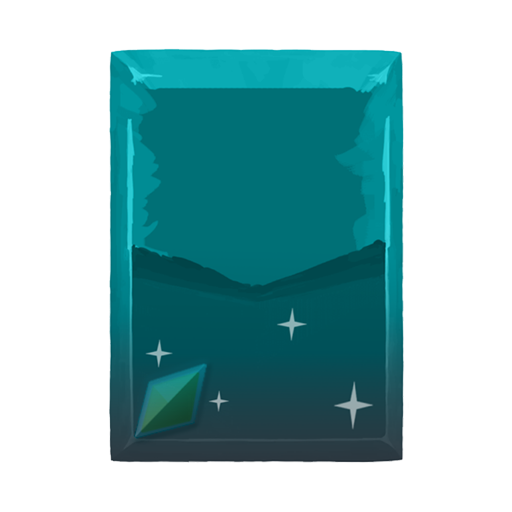
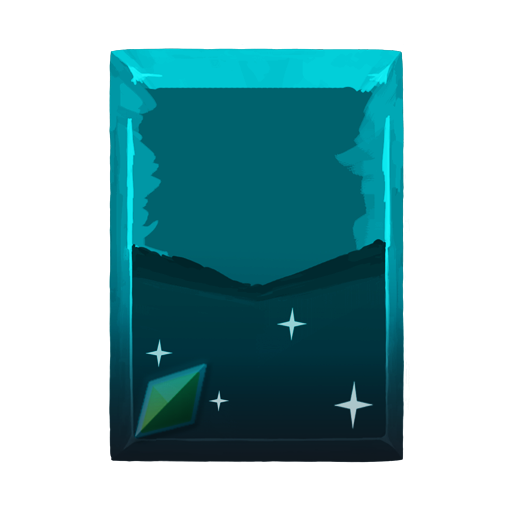
1.1.2更新 其他调整： 换脸商事件 特殊藏品 选项增加遗物预览 灵魂剥离 剥离出的灵魂名称改为 (目标)的灵魂 改良卡牌贴图配色，增加了对比度，消除了白边 为以下效果新增了图标： 全力招架 血迹 反击 交叉统治 印记捕获 枪械掌握 戕罚形态 牲祭替换 罪孽 临时协作 涤荡

diff --git a/src/main/java/demoMod/scapegoat/patches/events/shrines/FaceTraderPatch.java b/src/main/java/demoMod/scapegoat/patches/events/shrines/FaceTraderPatch.java
@@ -41,7 +41,7 @@ public class FaceTraderPatch {
                             event.imageEventText.updateDialogOption(0, OPTIONS[0] + damage + OPTIONS[5] + (AbstractDungeon.ascensionLevel >= 15 ? 50 : 75) + OPTIONS[1]);
                             event.imageEventText.setDialogOption(OPTIONS[2]);
                             int amount = AbstractDungeon.ascensionLevel >= 15 ? 2 : 1;
-                            event.imageEventText.setDialogOption(String.format(OPTIONS[6], amount, amount));
+                            event.imageEventText.setDialogOption(String.format(OPTIONS[6], amount, amount), new GhostMask());
                             event.imageEventText.setDialogOption(OPTIONS[3]);
                             ReflectionHacks.setPrivate(event, FaceTrader.class, "screen", Enum.valueOf((Class<Enum>) Class.forName("com.megacrit.cardcrawl.events.shrines.FaceTrader$CurScreen"), "MAIN"));
                             return SpireReturn.Return(null);

diff --git a/src/main/java/demoMod/scapegoat/powers/CrossDominatePower.java b/src/main/java/demoMod/scapegoat/powers/CrossDominatePower.java
@@ -8,6 +8,7 @@ import com.megacrit.cardcrawl.dungeons.AbstractDungeon;
 import com.megacrit.cardcrawl.localization.PowerStrings;
 import demoMod.scapegoat.Scapegoat;
 import demoMod.scapegoat.interfaces.PostBurialSubscriber;
+import demoMod.scapegoat.utils.PowerRegionLoader;
 
 public class CrossDominatePower extends TwoAmountPower implements PostBurialSubscriber {
     public static final String POWER_ID = Scapegoat.makeID("CrossDominatePower");
@@ -22,7 +23,7 @@ public class CrossDominatePower extends TwoAmountPower implements PostBurialSubs
         this.owner = AbstractDungeon.player;
         this.amount = 1;
         this.amount2 = this.defaultAmount = amount;
-        this.loadRegion("rushdown");
+        PowerRegionLoader.loadRegion(this);
         this.updateDescription();
     }
 

diff --git a/src/main/java/demoMod/scapegoat/powers/AllOutParryPower.java b/src/main/java/demoMod/scapegoat/powers/AllOutParryPower.java
@@ -9,6 +9,7 @@ import com.megacrit.cardcrawl.localization.PowerStrings;
 import com.megacrit.cardcrawl.powers.AbstractPower;
 import demoMod.scapegoat.Scapegoat;
 import demoMod.scapegoat.interfaces.PostBurialSubscriber;
+import demoMod.scapegoat.utils.PowerRegionLoader;
 
 public class AllOutParryPower extends AbstractPower implements PostBurialSubscriber {
     public static final String POWER_ID = Scapegoat.makeID("AllOutParryPower");
@@ -22,7 +23,7 @@ public class AllOutParryPower extends AbstractPower implements PostBurialSubscri
         this.owner = AbstractDungeon.player;
         this.amount = amount;
         this.updateDescription();
-        this.loadRegion("noPain");
+        PowerRegionLoader.loadRegion(this);
     }
 
     @Override

diff --git a/src/main/java/demoMod/scapegoat/powers/SacrificeReplacementPower.java b/src/main/java/demoMod/scapegoat/powers/SacrificeReplacementPower.java
@@ -9,6 +9,7 @@ import com.megacrit.cardcrawl.localization.PowerStrings;
 import com.megacrit.cardcrawl.powers.AbstractPower;
 import demoMod.scapegoat.Scapegoat;
 import demoMod.scapegoat.cards.scapegoat.Shard;
+import demoMod.scapegoat.utils.PowerRegionLoader;
 
 public class SacrificeReplacementPower extends AbstractPower {
     public static final String POWER_ID = Scapegoat.makeID("SacrificeReplacementPower");
@@ -21,7 +22,7 @@ public class SacrificeReplacementPower extends AbstractPower {
         this.ID = POWER_ID;
         this.owner = owner;
         this.amount = amount;
-        this.loadRegion("heartDef");
+        PowerRegionLoader.loadRegion(this);
         this.updateDescription();
         this.priority = 101;
     }

diff --git a/src/main/java/demoMod/scapegoat/powers/MasteryOfFirearmsPower.java b/src/main/java/demoMod/scapegoat/powers/MasteryOfFirearmsPower.java
@@ -9,6 +9,7 @@ import com.megacrit.cardcrawl.localization.PowerStrings;
 import com.megacrit.cardcrawl.powers.AbstractPower;
 import demoMod.scapegoat.Scapegoat;
 import demoMod.scapegoat.cards.scapegoat.SerialBullet;
+import demoMod.scapegoat.utils.PowerRegionLoader;
 
 public class MasteryOfFirearmsPower extends AbstractPower {
     public static final String POWER_ID = Scapegoat.makeID("MasteryOfFirearmsPower");
@@ -28,7 +29,7 @@ public class MasteryOfFirearmsPower extends AbstractPower {
         this.owner = AbstractDungeon.player;
         this.amount = amount;
         this.upgraded = upgraded;
-        this.loadRegion("attackBurn");
+        PowerRegionLoader.loadRegion(this);
         this.updateDescription();
     }
 

diff --git a/src/main/java/demoMod/scapegoat/powers/BloodstainPower.java b/src/main/java/demoMod/scapegoat/powers/BloodstainPower.java
@@ -6,6 +6,7 @@ import com.megacrit.cardcrawl.core.CardCrawlGame;
 import com.megacrit.cardcrawl.localization.PowerStrings;
 import com.megacrit.cardcrawl.powers.AbstractPower;
 import demoMod.scapegoat.Scapegoat;
+import demoMod.scapegoat.utils.PowerRegionLoader;
 
 public class BloodstainPower extends AbstractPower {
     public static final String POWER_ID = Scapegoat.makeID("BloodstainPower");
@@ -18,7 +19,7 @@ public class BloodstainPower extends AbstractPower {
         this.ID = POWER_ID;
         this.owner = owner;
         this.amount = amount;
-        this.loadRegion("strength");
+        PowerRegionLoader.loadRegion(this);
         this.updateDescription();
         this.priority = 99;
     }

diff --git a/src/main/java/demoMod/scapegoat/monsters/BaredSoul.java b/src/main/java/demoMod/scapegoat/monsters/BaredSoul.java
@@ -11,8 +11,8 @@ public class BaredSoul extends AbstractMonster {
     public static final String ID = Scapegoat.makeID("BaredSoul");
     public static final String NAME;
 
-    public BaredSoul(float offsetX, float offsetY, int maxHealth) {
-        super(NAME, ID + UUID.randomUUID().toString(), maxHealth, -8.0F, 10.0F, 180.0F, 229.0F, Scapegoat.getResourcePath("monsters/baredSoul.png"), offsetX, offsetY);
+    public BaredSoul(String sourceName, float offsetX, float offsetY, int maxHealth) {
+        super(sourceName + NAME, ID + UUID.randomUUID().toString(), maxHealth, -8.0F, 10.0F, 180.0F, 229.0F, Scapegoat.getResourcePath("monsters/baredSoul.png"), offsetX, offsetY);
     }
 
     @Override

diff --git a/src/main/java/demoMod/scapegoat/powers/MarkerCapturePower.java b/src/main/java/demoMod/scapegoat/powers/MarkerCapturePower.java
@@ -8,6 +8,7 @@ import com.megacrit.cardcrawl.dungeons.AbstractDungeon;
 import com.megacrit.cardcrawl.localization.PowerStrings;
 import com.megacrit.cardcrawl.powers.AbstractPower;
 import demoMod.scapegoat.Scapegoat;
+import demoMod.scapegoat.utils.PowerRegionLoader;
 
 public class MarkerCapturePower extends AbstractPower {
     public static final String POWER_ID = Scapegoat.makeID("MarkerCapturePower");
@@ -21,7 +22,7 @@ public class MarkerCapturePower extends AbstractPower {
         this.owner = AbstractDungeon.player;
         this.amount = amount;
         this.updateDescription();
-        this.loadRegion("shackle");
+        PowerRegionLoader.loadRegion(this);
     }
 
     @Override

diff --git a/src/main/java/demoMod/scapegoat/powers/TemporaryCollaborationPower.java b/src/main/java/demoMod/scapegoat/powers/TemporaryCollaborationPower.java
@@ -9,6 +9,7 @@ import com.megacrit.cardcrawl.powers.AbstractPower;
 import demoMod.scapegoat.Scapegoat;
 import demoMod.scapegoat.actions.BurialAction;
 import demoMod.scapegoat.actions.RecallAction;
+import demoMod.scapegoat.utils.PowerRegionLoader;
 
 public class TemporaryCollaborationPower extends TwoAmountPower {
     public static final String POWER_ID = Scapegoat.makeID("TemporaryCollaborationPower");
@@ -23,7 +24,7 @@ public class TemporaryCollaborationPower extends TwoAmountPower {
         this.amount = amount;
         this.amount2 = amount2;
         this.loadRegion("tools");
-        this.updateDescription();
+        PowerRegionLoader.loadRegion(this);
     }
 
     @Override

diff --git a/src/main/java/demoMod/scapegoat/powers/SinPower.java b/src/main/java/demoMod/scapegoat/powers/SinPower.java
@@ -5,6 +5,7 @@ import com.megacrit.cardcrawl.core.CardCrawlGame;
 import com.megacrit.cardcrawl.localization.PowerStrings;
 import com.megacrit.cardcrawl.powers.AbstractPower;
 import demoMod.scapegoat.Scapegoat;
+import demoMod.scapegoat.utils.PowerRegionLoader;
 
 public class SinPower extends AbstractPower {
     public static final String POWER_ID = Scapegoat.makeID("SinPower");
@@ -17,7 +18,7 @@ public class SinPower extends AbstractPower {
         this.ID = POWER_ID;
         this.owner = owner;
         this.amount = amount;
-        this.loadRegion("dexterity");
+        PowerRegionLoader.loadRegion(this);
         this.updateDescription();
         this.priority = 99;
     }

diff --git a/src/main/java/demoMod/scapegoat/powers/CounterAttackPower.java b/src/main/java/demoMod/scapegoat/powers/CounterAttackPower.java
@@ -7,6 +7,7 @@ import com.megacrit.cardcrawl.core.CardCrawlGame;
 import com.megacrit.cardcrawl.localization.PowerStrings;
 import com.megacrit.cardcrawl.powers.AbstractPower;
 import demoMod.scapegoat.Scapegoat;
+import demoMod.scapegoat.utils.PowerRegionLoader;
 
 public class CounterAttackPower extends AbstractPower {
     public static final String POWER_ID = Scapegoat.makeID("CounterAttackPower");
@@ -20,7 +21,7 @@ public class CounterAttackPower extends AbstractPower {
         this.ID = POWER_ID;
         this.owner = owner;
         this.amount = -1;
-        this.loadRegion("malleable");
+        PowerRegionLoader.loadRegion(this);
         this.updateDescription();
     }
 

diff --git a/src/main/java/demoMod/scapegoat/powers/PunishmentFormPower.java b/src/main/java/demoMod/scapegoat/powers/PunishmentFormPower.java
@@ -7,6 +7,7 @@ import com.megacrit.cardcrawl.localization.PowerStrings;
 import com.megacrit.cardcrawl.monsters.AbstractMonster;
 import com.megacrit.cardcrawl.powers.AbstractPower;
 import demoMod.scapegoat.Scapegoat;
+import demoMod.scapegoat.utils.PowerRegionLoader;
 
 public class PunishmentFormPower extends AbstractPower {
     public static final String POWER_ID = Scapegoat.makeID("PunishmentFormPower");
@@ -21,6 +22,7 @@ public class PunishmentFormPower extends AbstractPower {
         this.amount = amount;
         this.updateDescription();
         this.loadRegion("echo");
+        PowerRegionLoader.loadRegion(this);
     }
 
     @Override
